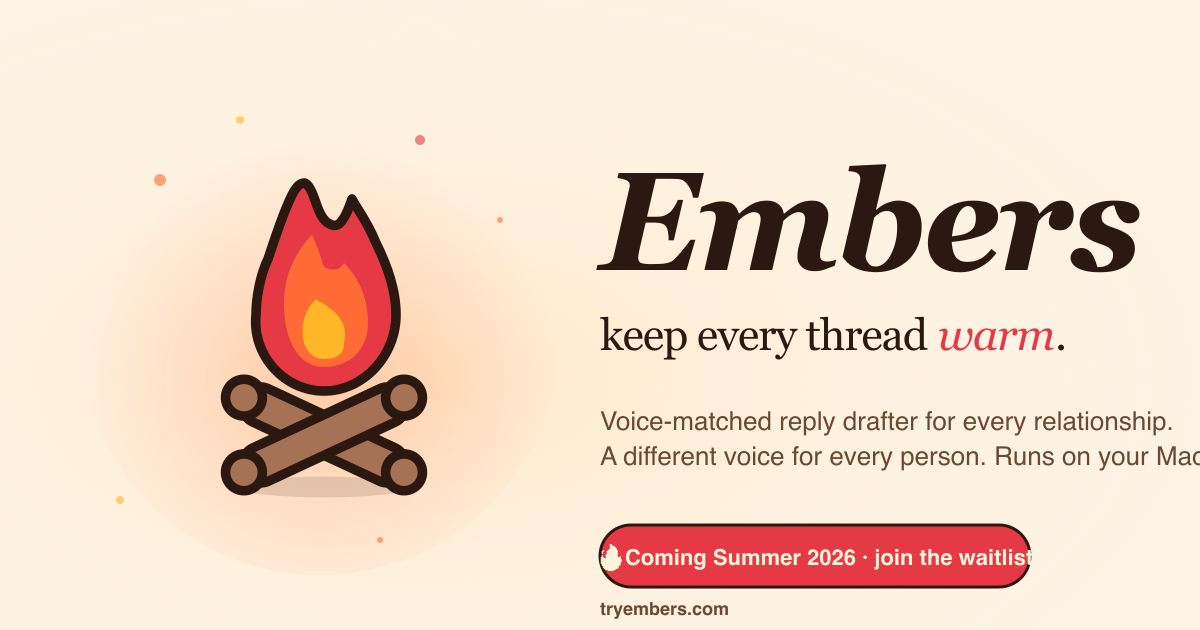
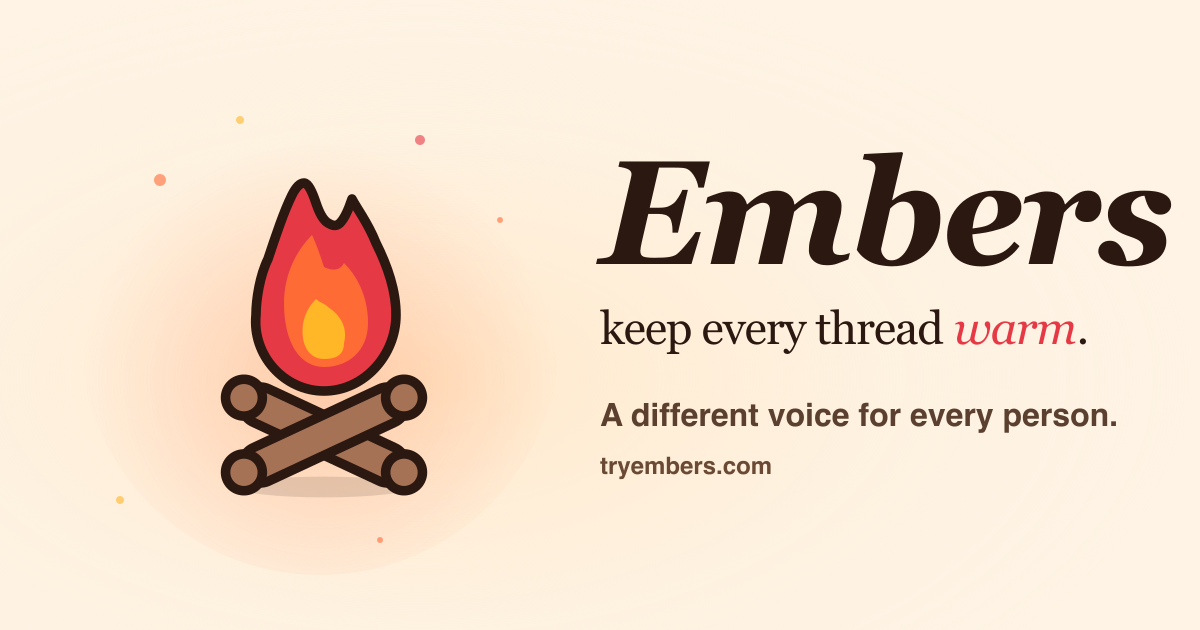
Simplify the Embers share image
- remove the red waitlist CTA from the OG artwork
- reduce the right-side copy to a single clearer value line
- increase the brown value text and domain size for better readability
- update the OG alt text to match the simpler image

diff --git a/site/index.html b/site/index.html
@@ -12,7 +12,7 @@
 <meta property="og:image" content="https://tryembers.com/og-image.png" />
 <meta property="og:image:width" content="1200" />
 <meta property="og:image:height" content="630" />
-<meta property="og:image:alt" content="Embers — keep every thread warm. Coming Summer 2026." />
+<meta property="og:image:alt" content="Embers — keep every thread warm." />
 <meta name="twitter:card" content="summary_large_image" />
 <meta name="twitter:title" content="Embers — keep every thread warm" />
 <meta name="twitter:description" content="Voice-matched reply drafter for every relationship. Coming Summer 2026 — join the waitlist." />
